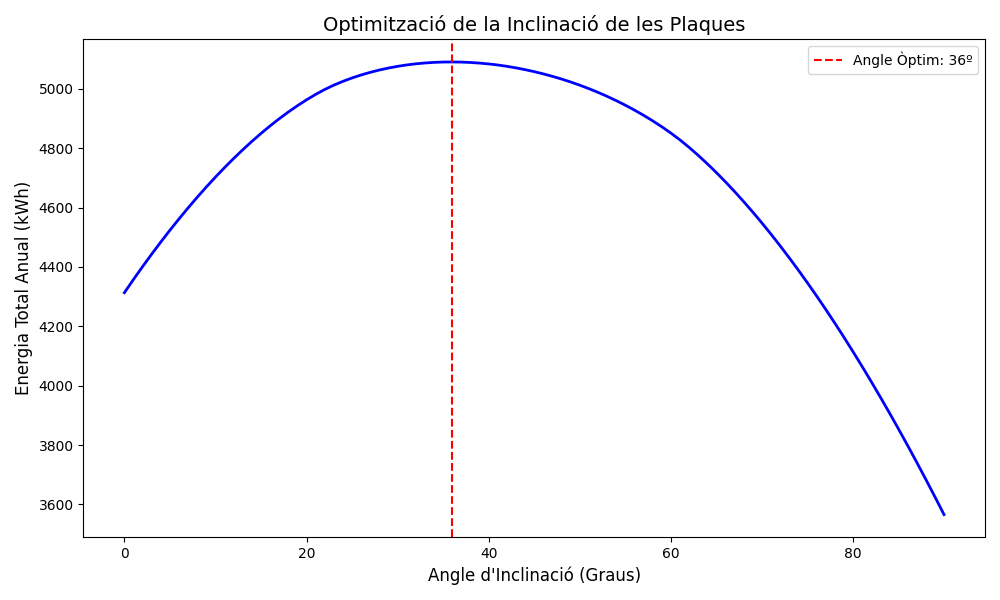
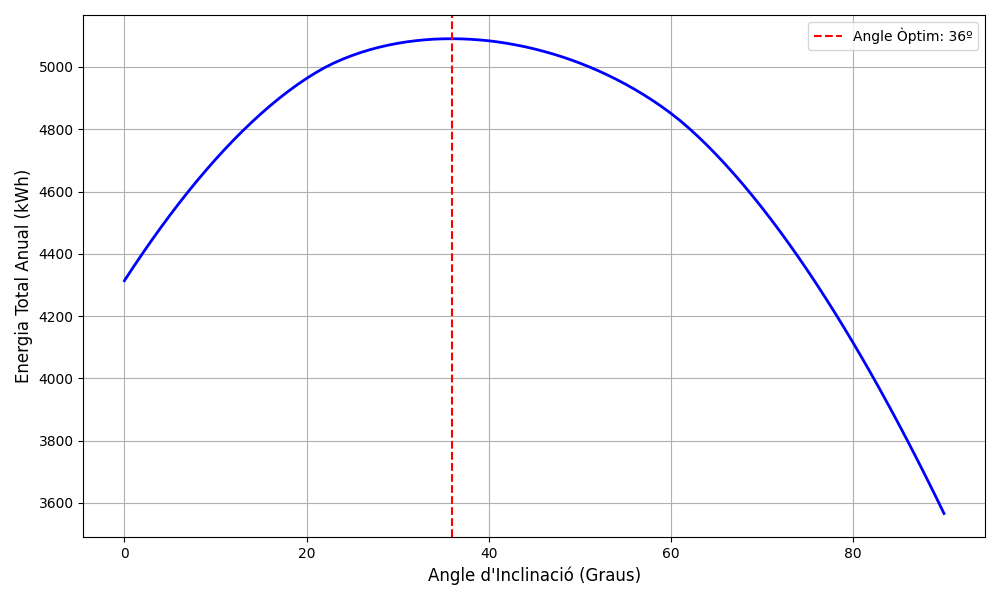
cambios de graficos

diff --git a/codi/energiagenerada.py b/codi/energiagenerada.py
@@ -138,7 +138,6 @@ dies_any = np.arange(1, len(Energia_dia_op) + 1)
 plt.figure(figsize=(10, 6))
 plt.plot(dies_any, np.array(Energia_dia_op)/1000, color='orange', label=f'Inclinació {millor_beta}º')
 
-plt.title(f"Producció Solar Diària Optimitzada (Total: {max_energia_wh/1000:.0f} kWh)", fontsize=14)
 plt.xlabel("Dia de l'any", fontsize=12)
 plt.ylabel("Energia Diària (kWh)", fontsize=12)
 plt.grid(True, linestyle='--', alpha=0.5)
@@ -150,9 +149,9 @@ plt.figure(figsize=(10, 6))
 plt.plot(beta_provar, np.array(Energia_total)/1000, color='blue', linewidth=2)
 plt.axvline(millor_beta, color='red', linestyle='--', label=f'Angle Òptim: {millor_beta}º')
 
-plt.title("Optimització de la Inclinació de les Plaques", fontsize=14)
 plt.xlabel("Angle d'Inclinació (Graus)", fontsize=12)
 plt.ylabel("Energia Total Anual (kWh)", fontsize=12)
+plt.grid(True)
 plt.legend()
 plt.tight_layout()
 plt.savefig('figures/optimitzacio_beta.png')
